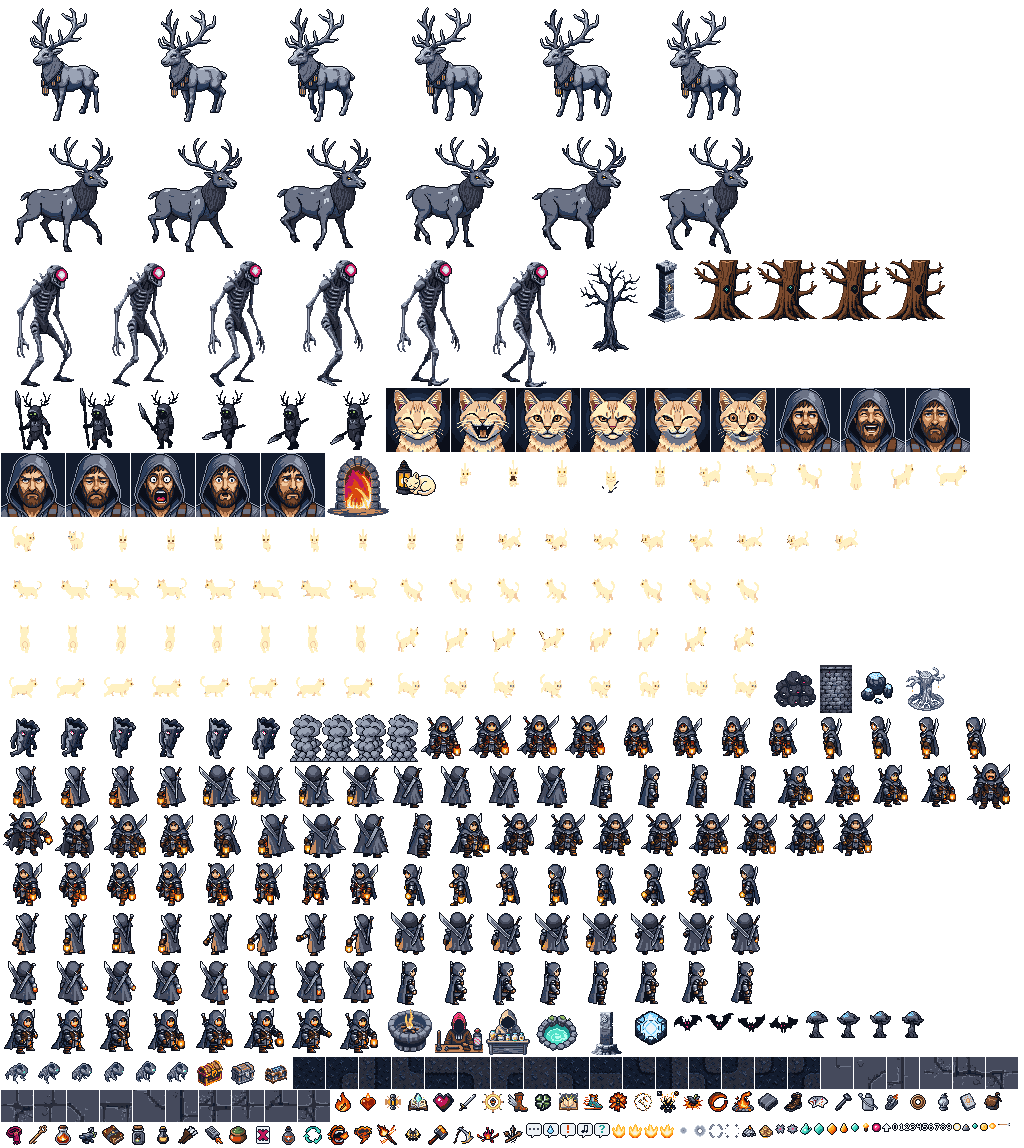
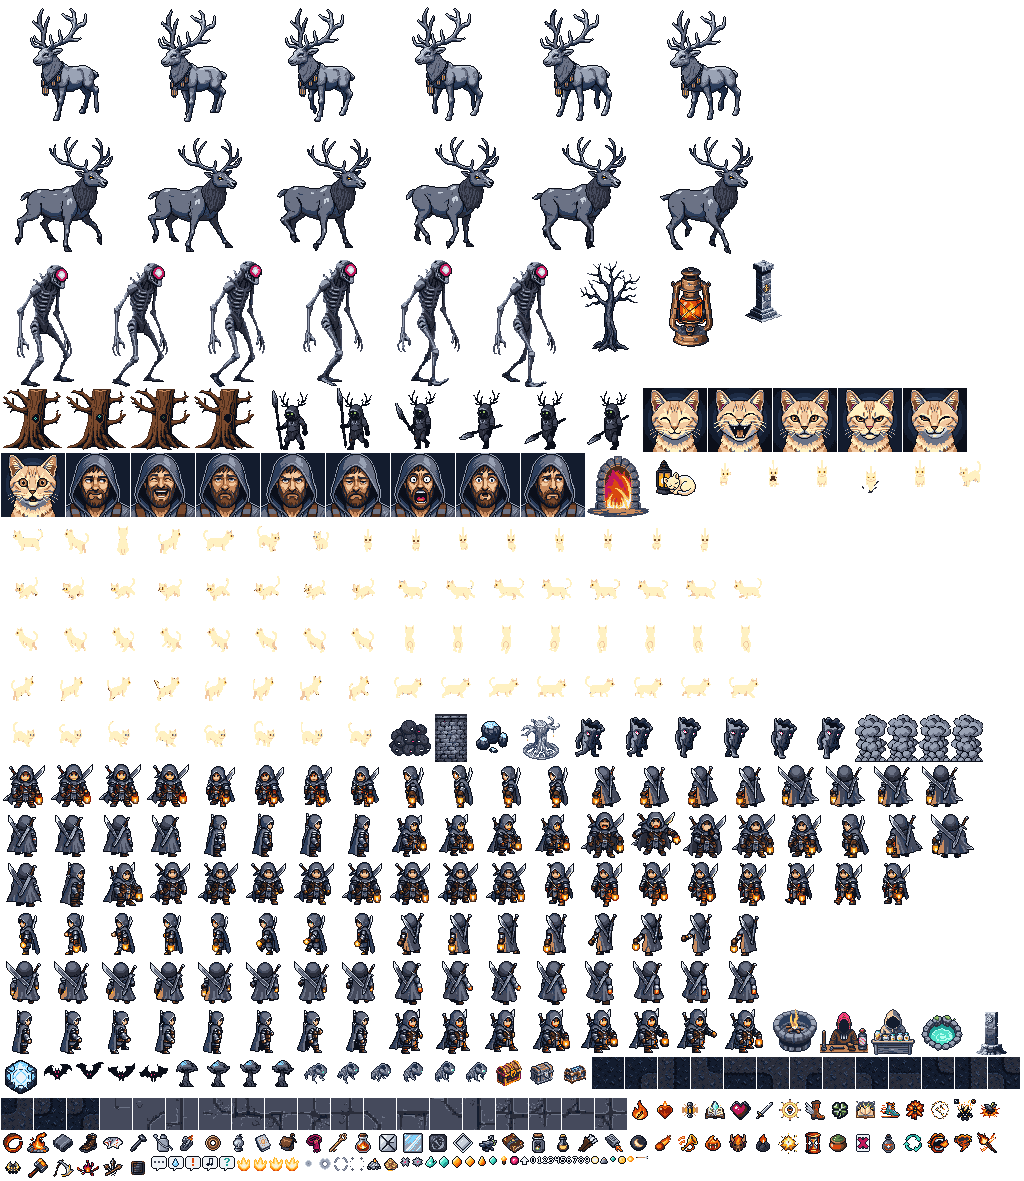
feat(lanterne): icônes des runes et des verres, objet au sol et cadre

diff --git a/packages/braise/tests/unit/assets.test.ts b/packages/braise/tests/unit/assets.test.ts
@@ -61,6 +61,8 @@ describe('assets (documents 10 et 11)', () => {
     for (const r of data.relics) need.push(r.icon);
     for (const e of data.enemies) need.push(e.sprite);
     for (const a of data.altar) need.push(a.icon);
+    for (const p of data.lantern.pieces) need.push(p.icon);
+    need.push('pickup-lantern-piece', 'lantern-frame', 'lantern-face-closed');
     for (const region of Object.values(data.regions)) {
       for (let mask = 0; mask < 16; mask++) need.push(`${region.tileset}-${mask}`);
       for (const d of region.decor) need.push(d.sprite);
